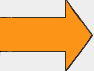
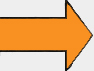
some fixes

Changed region(s): [[0.0, 0.0, 0.8723, 0.3099], [0.0, 0.3099, 0.9787, 1.0]]

diff --git a/scripts/firstLab.js b/scripts/firstLab.js
@@ -710,6 +710,11 @@ function deactivateFreeze(numb) {
 
 function showWaybill(numb)
 {
+    if(appIsStart != true)
+    {
+        return;
+    }
+
     switch (numb) {
         case 0:
             waybill = waybill0;
@@ -731,6 +736,11 @@ function showWaybill(numb)
 //лаборатория
 function labMessage(numb)
 {
+    if(appIsStart != true)
+    {
+        return;
+    }
+
     var str;
     var labBlock = document.getElementById('labBlock');
     var div = document.createElement('div');
@@ -753,6 +763,11 @@ function labMessage(numb)
 
 //Отказ от машины
 function rejectCar(numb) {
+    if(appIsStart != true)
+    {
+        return;
+    }
+
     var car = cars[numb];
     if(car.isEmpty == true)
         return;
@@ -778,7 +793,14 @@ function rejectCar(numb) {
 
 //Выбор сорта
 function chooseSort(numb) {
+    if(appIsStart != true)
+    {
+        return;
+    }
     var car = cars[numb];
+    if(car.waybill.sort == 1 || car.waybill.sort == 2 || car.waybill.sort == 'Несортовое')
+        return;
+
     var rigthSort = car.milkChar.sort;
     var sort = prompt('Введите сорт');
     if(sort == null)

diff --git a/views/wash.html b/views/wash.html
@@ -14,7 +14,7 @@
         <img src="/images/Tank_up.jpg" style="width: 200px; margin-left: 150px">
     </div>
     <div id="pipe"></div>
-    <img src="/images/Strelka.jpg" style="position: absolute; margin-left: 550px; margin-top: -28px; height: 40px;">
+    <img src="/images/Strelka.jpg" style="position: absolute; margin-left: 552px; margin-top: -27px; height: 38px;">
     <span style="position: absolute; margin-left: 375px; margin-top: -37px;">В приемно-моечное отделение</span>
     <div id="lowLine">
         <img src="/images/Tank_down.jpg" style="width: 200px; margin-right: 150px">

diff --git a/css/style.css b/css/style.css
@@ -180,19 +180,19 @@ body
 }
 #carText1
 {
-    margin-top: 30px;
+    margin-top: 45px;
 }
 #carText2
 {
-    margin-top: 160px;
+    margin-top: 175px;
 }
 #carText3
 {
-    margin-top: 295px;
+    margin-top: 310px;
 }
 #carText4
 {
-    margin-top: 425px;
+    margin-top: 440px;
 }
 #playDiv
 {

diff --git a/views/reports.html b/views/reports.html
@@ -10,6 +10,7 @@
     <div id="reportList">
         <div>Ваши отчеты: </div>
         <div id="reports"></div>
+        <a href="dashboard.html"><button>Выйти</button></a>
     </div>
 </div>
 <script src="/scripts/reports.js"></script>
